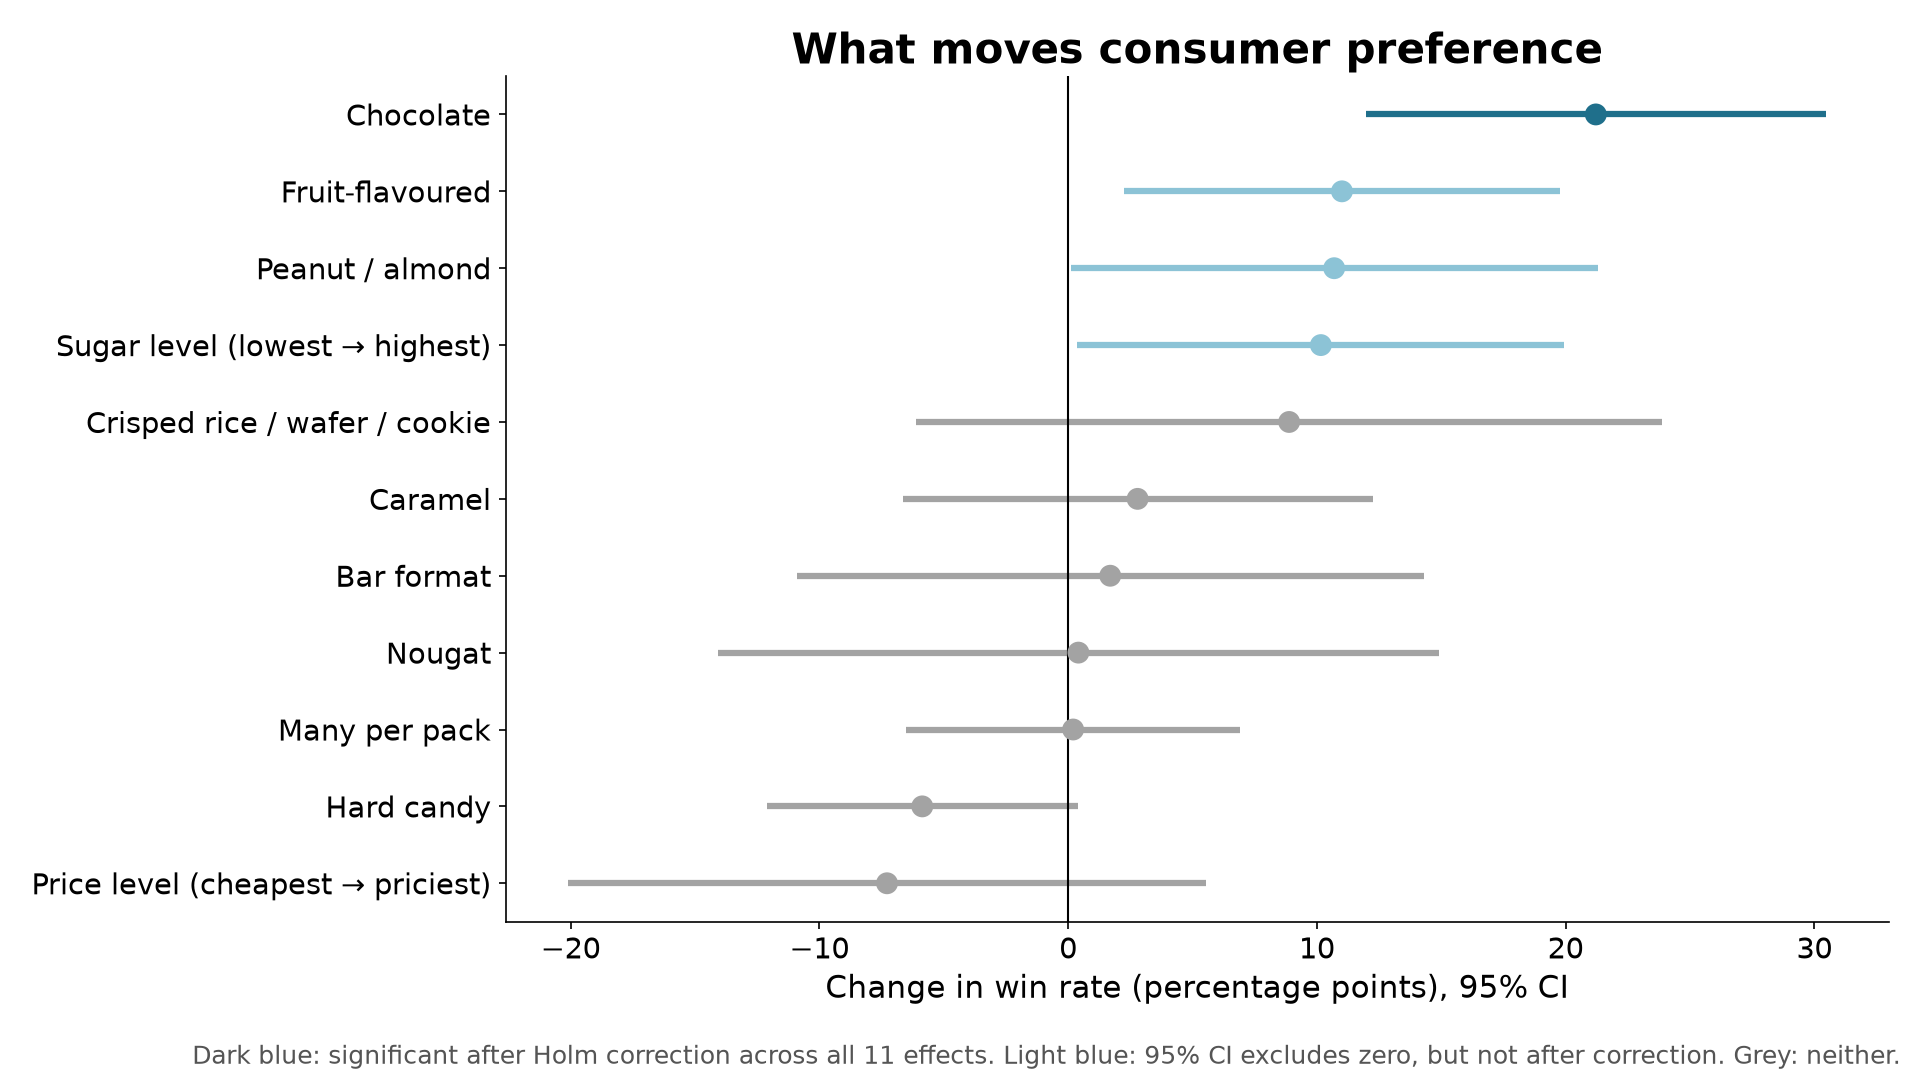
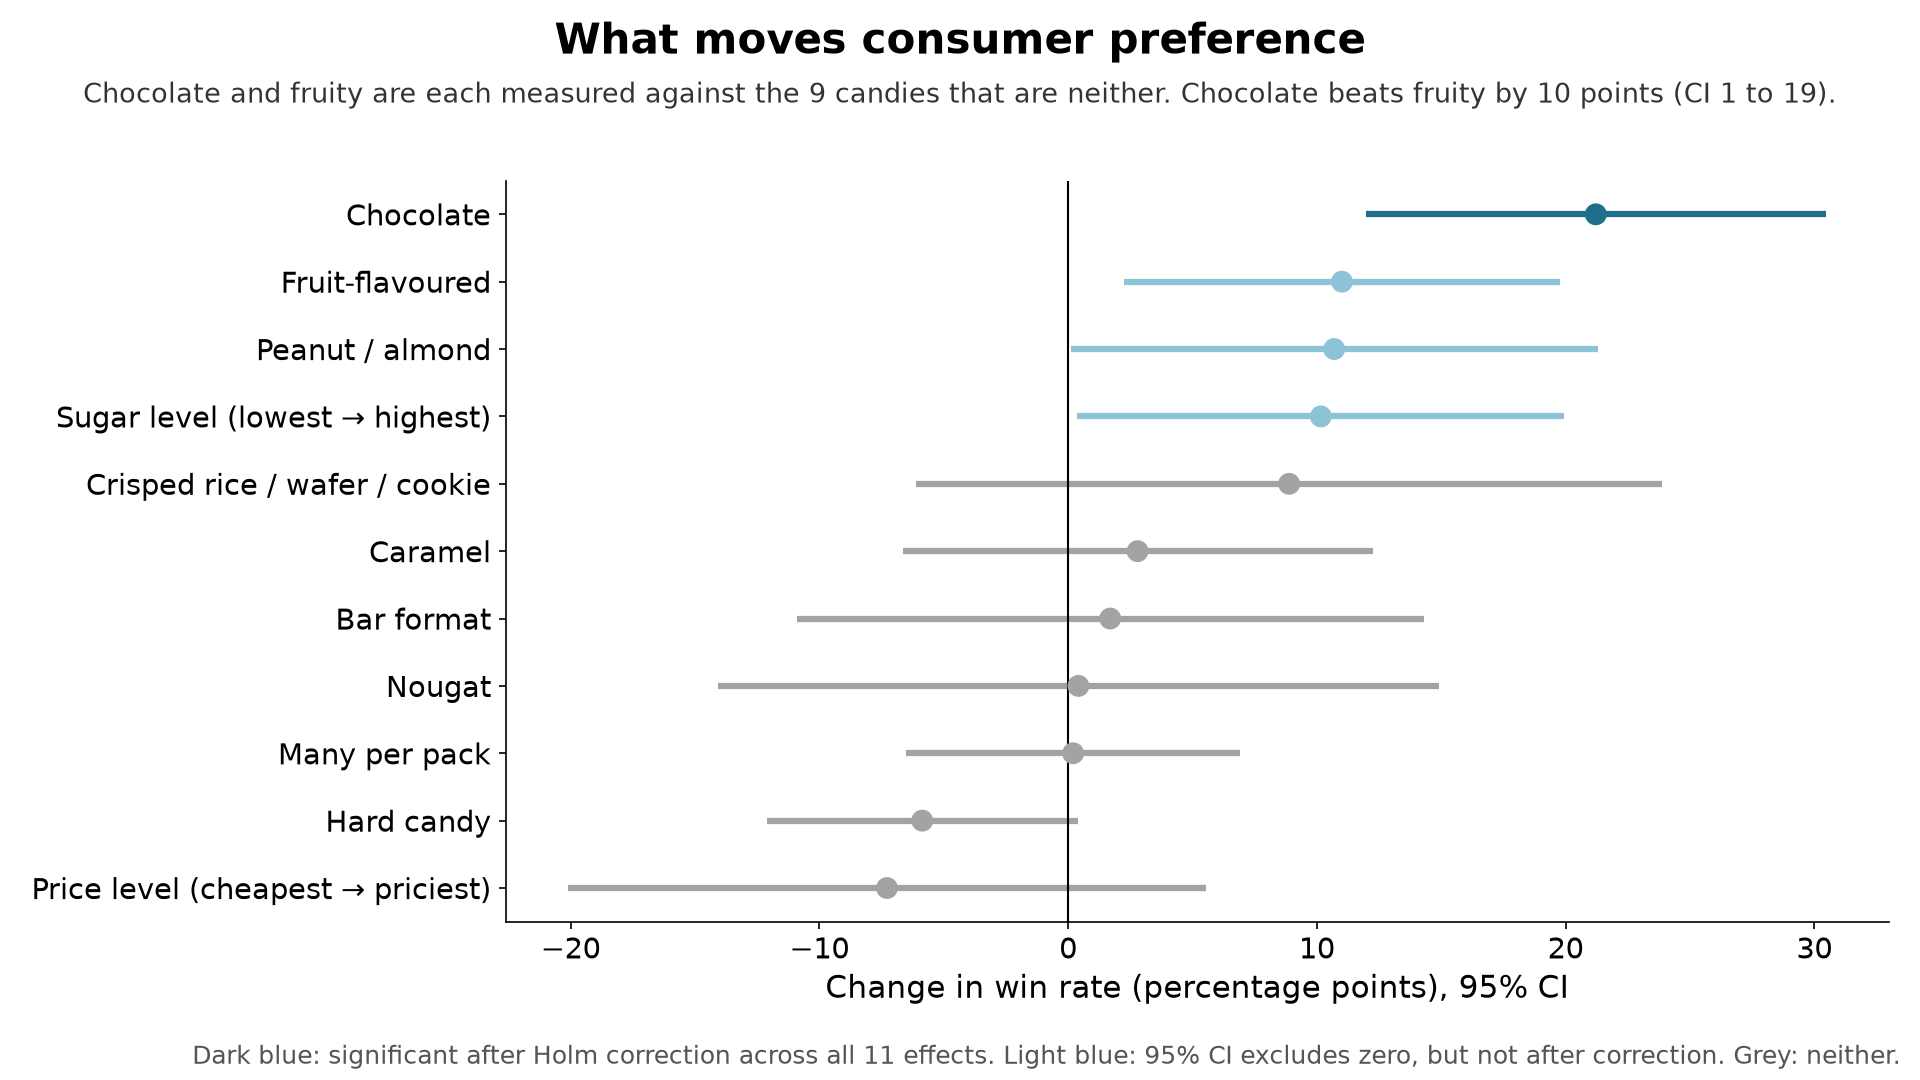
fix: show that fruity is measured against non-chocolate candies
Nearly every candy is chocolate or fruity, so both coefficients
compare with the nine candies that are neither. Fruity's +11 then reads
as 'fruit helps', while fruity candies score lower on average.

Add chocolate minus fruity to the bundle (+10, CI 1 to 19), say what
the effects are measured against under the coefficient chart title,
and give each attribute's evidence tier its direction. The primary
profile now reads the direction from the tier.

diff --git a/src/candy/pipeline.py b/src/candy/pipeline.py
@@ -108,6 +108,7 @@ def run(raw_csv: Path, gummy_csv: Path, out_dir: Path, seed: int = SEED) -> dict
         ranked, scorer, candies, evidence_tiers(main_model, confirmed=survivors)
     )
     ranked = mark_ties(ranked, scorer, recommendation["primary"]["attributes"])
+    chocolate_vs_fruity = _chocolate_vs_fruity(candies, scorer)
     gummy_scorer = ProfileScorer(gummy_model, levels, (), extra_attributes=("gummy",))
     cookie_vs_gummy = compare_cookie_and_gummy(gummy_scorer)
     comparison = _attribute_comparison_table(candies)
@@ -121,6 +122,7 @@ def run(raw_csv: Path, gummy_csv: Path, out_dir: Path, seed: int = SEED) -> dict
         },
         "main_model": _model_section(main_model, target="win_rate"),
         "holm": {"alpha": ALPHA, "results": _records(holm_results, "term")},
+        "chocolate_vs_fruity": chocolate_vs_fruity,
         "attribute_comparison": {
             "test": "welch",
             "alpha": ALPHA,
@@ -198,7 +200,13 @@ def run(raw_csv: Path, gummy_csv: Path, out_dir: Path, seed: int = SEED) -> dict
 
     figures = out_dir / FIGURES_DIR
     win_rate_distribution_chart(candies, figures / "win_rate_distribution.png")
-    coefficient_chart(main_model.table(), survivors, ALPHA, figures / "coefficients.png")
+    coefficient_chart(
+        main_model.table(),
+        survivors,
+        ALPHA,
+        _reference_group_note(chocolate_vs_fruity),
+        figures / "coefficients.png",
+    )
     attribute_comparison_chart(comparison, ALPHA, figures / "attribute_comparison.png")
     hc3 = main_model.effects_in_points()
     robustness_chart(
@@ -225,6 +233,38 @@ def run(raw_csv: Path, gummy_csv: Path, out_dir: Path, seed: int = SEED) -> dict
     _write_appendix(out_dir / APPENDIX_DIR, bundle, gummy_csv)
     (out_dir / BUNDLE_NAME).write_text(json.dumps(bundle, indent=2) + "\n")
     return bundle
+
+
+def _chocolate_vs_fruity(candies: pd.DataFrame, scorer: ProfileScorer) -> dict:
+    """Chocolate minus fruity, all else equal, with its CI.
+
+    Nearly every candy is chocolate or fruity, so each coefficient alone
+    compares with the few candies that are neither; this is the direct
+    comparison of the two product types.
+    """
+    neither = (candies["chocolate"] == 0) & (candies["fruity"] == 0)
+    blank = dict.fromkeys(ATTRIBUTES, 0)
+    gap = scorer.gap(blank | {"chocolate": 1}, blank | {"fruity": 1})
+    return {
+        "note": "The chocolate and fruity coefficients each compare with the "
+        f"{int(neither.sum())} candies that are neither, so a positive fruity "
+        "coefficient does not mean fruit flavour raises preference. This is the "
+        "direct comparison of the two, all else equal.",
+        "n_neither": int(neither.sum()),
+        "candies_neither": candies.loc[neither, "candy"].tolist(),
+        "estimate": gap.estimate,
+        "ci_low": gap.ci_low,
+        "ci_high": gap.ci_high,
+    }
+
+
+def _reference_group_note(contrast: dict) -> str:
+    return (
+        f"Chocolate and fruity are each measured against the {contrast['n_neither']} "
+        f"candies that are neither. Chocolate beats fruity by "
+        f"{contrast['estimate']:.0f} points (CI {contrast['ci_low']:.0f} to "
+        f"{contrast['ci_high']:.0f})."
+    )
 
 
 def _data_notes(bundle: dict) -> list[str]:

diff --git a/src/candy/profiles.py b/src/candy/profiles.py
@@ -147,20 +147,22 @@ def rank(profiles: pd.DataFrame, scorer: ProfileScorer) -> list[dict]:
     return [{"rank": i + 1, **row} for i, row in enumerate(rows)]
 
 
-def evidence_tiers(model: FitResult, confirmed: set[str]) -> dict[str, str]:
-    """How well the data supports each attribute's effect.
+def evidence_tiers(model: FitResult, confirmed: set[str]) -> dict[str, dict[str, str]]:
+    """How well the data supports each attribute's effect, and its direction.
 
-    ``driver``: in ``confirmed`` (significant after multiple-testing
-    correction). ``tentative``: its own CI excludes zero, but it is not
-    confirmed. ``open``: the data does not decide, so it is a free design choice.
+    ``tier`` is ``driver`` when the attribute is in ``confirmed`` (significant
+    after multiple-testing correction), ``tentative`` when its own CI excludes
+    zero but it is not confirmed, and ``open`` when the data does not decide,
+    so it is a free design choice. ``direction`` is the sign of the estimate.
     """
-    tiers = {}
+    evidence = {}
     for attribute in ATTRIBUTES:
         excludes_zero = model.ci_low[attribute] > 0 or model.ci_high[attribute] < 0
-        tiers[attribute] = (
-            DRIVER if attribute in confirmed else TENTATIVE if excludes_zero else OPEN
-        )
-    return tiers
+        evidence[attribute] = {
+            "tier": DRIVER if attribute in confirmed else TENTATIVE if excludes_zero else OPEN,
+            "direction": "positive" if model.coef[attribute] > 0 else "negative",
+        }
+    return evidence
 
 
 def mark_ties(ranked: list[dict], scorer: ProfileScorer, primary: dict[str, int]) -> list[dict]:
@@ -175,7 +177,10 @@ def mark_ties(ranked: list[dict], scorer: ProfileScorer, primary: dict[str, int]
 
 
 def recommend(
-    ranked: list[dict], scorer: ProfileScorer, candies: pd.DataFrame, tiers: dict[str, str]
+    ranked: list[dict],
+    scorer: ProfileScorer,
+    candies: pd.DataFrame,
+    evidence: dict[str, dict[str, str]],
 ) -> dict:
     """The primary profile with its benchmark candies and how far it
     extrapolates beyond real candies.
@@ -183,7 +188,9 @@ def recommend(
     The primary profile is the best supported profile that switches on nothing
     but drivers with a positive effect.
     """
-    favourable = {a for a in ATTRIBUTES if tiers[a] == DRIVER and scorer.model.coef[a] > 0}
+    favourable = {
+        a for a, e in evidence.items() if e["tier"] == DRIVER and e["direction"] == "positive"
+    }
     primary = next(
         row
         for row in ranked
@@ -204,7 +211,7 @@ def recommend(
 
     return {
         "rule": PRIMARY_RULE,
-        "attribute_evidence": tiers,
+        "attribute_evidence": evidence,
         "primary": describe(primary),
     }
 

diff --git a/src/candy/figures.py b/src/candy/figures.py
@@ -38,14 +38,15 @@ plt.rcParams.update(
 
 
 def coefficient_chart(
-    table: pd.DataFrame, survivors: set[str], alpha: float, path: Path
+    table: pd.DataFrame, survivors: set[str], alpha: float, reference_note: str, path: Path
 ) -> None:
     """Horizontal CI chart of each term's effect on win rate, intercept excluded.
 
     ``table`` has one row per term with ``coef``, ``ci_low`` and ``ci_high`` at
     level ``1 - alpha``. Terms in ``survivors`` (Holm-significant across every
     plotted term) are highlighted; terms whose raw CI excludes zero but that do
-    not survive Holm are shown as tentative.
+    not survive Holm are shown as tentative. ``reference_note`` is shown under
+    the title, to say what the effects are measured against.
     """
     rows = table.drop(index=INTERCEPT).sort_values("coef")
     excludes_zero = (rows["ci_low"] > 0) | (rows["ci_high"] < 0)
@@ -61,14 +62,15 @@ def coefficient_chart(
     ax.axvline(0, color="black", linewidth=1)
     ax.set_yticks(list(y), [LABELS.get(t, t) for t in rows.index])
     ax.set_xlabel(f"Change in win rate (percentage points), {1 - alpha:.0%} CI")
-    ax.set_title("What moves consumer preference")
+    fig.suptitle("What moves consumer preference", fontsize=20, fontweight="bold")
+    fig.text(0.5, 0.905, reference_note, ha="center", fontsize=13, color="#333333")
     _footnote(
         fig,
         f"Dark blue: significant after Holm correction across all {len(rows)} effects. "
         f"Light blue: {1 - alpha:.0%} CI excludes zero, but not after correction. "
         "Grey: neither.",
     )
-    _save(fig, path)
+    _save(fig, path, top=0.93)
 
 
 def attribute_comparison_chart(rows: pd.DataFrame, alpha: float, path: Path) -> None:
@@ -296,8 +298,8 @@ def _footnote(fig: plt.Figure, text: str) -> None:
     fig.text(0.99, 0.015, text, ha="right", fontsize=12, color="#555555")
 
 
-def _save(fig: plt.Figure, path: Path) -> None:
-    fig.tight_layout(rect=(0, 0.04, 1, 1))
+def _save(fig: plt.Figure, path: Path, top: float = 1) -> None:
+    fig.tight_layout(rect=(0, 0.04, 1, top))
     path.parent.mkdir(parents=True, exist_ok=True)
     fig.savefig(path)
     plt.close(fig)

diff --git a/tests/test_pipeline.py b/tests/test_pipeline.py
@@ -442,19 +442,33 @@ def test_attribute_evidence_follows_holm_and_the_confidence_intervals(bundle):
     for attribute in ATTRIBUTES:
         row = coefs[attribute]
         excludes_zero = row["ci_low"] > 0 or row["ci_high"] < 0
-        expected[attribute] = (
-            "driver" if holm[attribute] else "tentative" if excludes_zero else "open"
-        )
+        expected[attribute] = {
+            "tier": "driver" if holm[attribute] else "tentative" if excludes_zero else "open",
+            "direction": "positive" if row["coef"] > 0 else "negative",
+        }
 
     assert bundle["recommendation"]["attribute_evidence"] == expected
-    assert expected["chocolate"] == "driver"
-    assert expected["nougat"] == "open"
+    assert expected["chocolate"]["tier"] == "driver"
+    assert expected["nougat"]["tier"] == "open"
+    assert expected["hard"]["direction"] == "negative"
+
+
+def test_chocolate_vs_fruity_is_the_difference_of_their_coefficients(bundle):
+    coef = {r["term"]: r["coef"] for r in bundle["main_model"]["coefficients"]}
+    contrast = bundle["chocolate_vs_fruity"]
+
+    assert contrast["estimate"] == pytest.approx(coef["chocolate"] - coef["fruity"])
+    assert contrast["ci_low"] < contrast["estimate"] < contrast["ci_high"]
+    # 9 candies are neither; Tootsie Pop is the only one that is both.
+    assert contrast["n_neither"] == len(contrast["candies_neither"]) == 9
+    # Fruity's coefficient is positive, yet chocolate clearly beats fruity.
+    assert coef["fruity"] > 0 and contrast["ci_low"] > 0
 
 
 def test_primary_profile_is_the_best_profile_made_only_of_drivers(bundle):
     ranked = bundle["profiles"]["ranked"]
     rec = bundle["recommendation"]
-    drivers = {a for a, tier in rec["attribute_evidence"].items() if tier == "driver"}
+    drivers = {a for a, e in rec["attribute_evidence"].items() if e["tier"] == "driver"}
 
     def only_drivers(row):
         return all(a in drivers for a, on in row["attributes"].items() if on)

diff --git a/README.md b/README.md
@@ -34,7 +34,9 @@ cookie-versus-gummy debate; see `data/derived/README.md` for the coding rule.
    coding, and validate that attributes are 0/1 and levels lie in 0 to 1.
 2. **Main model.** Ordinary least squares of win rate on the nine attributes
    plus sugar and price level (12 parameters including the intercept).
-   Coefficients read as *points of win rate*. Inference uses HC3
+   Coefficients read as *points of win rate*. Almost every candy is chocolate
+   or fruity, so both coefficients compare with the 9 candies that are
+   neither; the bundle also gives chocolate minus fruity directly. Inference uses HC3
    heteroskedasticity-robust standard errors and t-based 95% intervals.
 3. **Diagnostics.** Variance inflation factors, leave-one-out R² (an honest
    out-of-sample fit), Holm correction across the 11 main effects, and a simple
